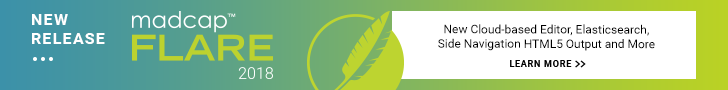
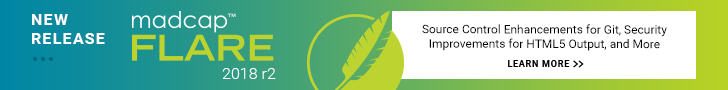
added document360 ad

diff --git a/_includes/single_post_ads.html b/_includes/single_post_ads.html
@@ -1,9 +1,10 @@
 <div class="singlePostAds">
     <script>
 var contents=new Array()
-contents[0]='<a href="https://www.madcapsoftware.com/madcap-flare-2018/?utm_source=IdRatherBeWriting&utm_campaign=Flare2018&utm_medium=Banner"><img src="{{ "/images/ads/Flare2018-720x90.png" | prepend: site.baseurl }}" alt="Madcap Flare" /></a>'
+contents[0]='<a href="https://www.madcapsoftware.com/madcap-flare-2018/?utm_source=IdRatherBeWriting&utm_campaign=Flare2018r2&utm_medium=Banner"><img src="{{ "/images/ads/Flare2018-720x90.png" | prepend: site.baseurl }}" alt="Madcap Flare" /></a>'
 contents[1]='<a href="https://www.adobe.com/products/robohelp/download-trial/try.html?sdid=HHJ4XJQZ&mv=other&promoid=7011O0000037sV8QAI"><img src="{{ "/images/ads/adobe728x90.gif" | prepend: site.baseurl }}" alt="Adobe Robohelp" /></a>'
 contents[2]='<a href="https://swagger.io/tools/swaggerhub/?utm_medium=display&utm_source=idratherbewriting&utm_campaign=irbwsponsor"><img src="{{ "/images/ads/SwaggerHub_GP_API-Ads_728x90.png" | prepend: site.baseurl }}" alt="SwaggerHub: The Platform for Designing and Documenting APIs with Swagger" /></a>'
+contents[3]='<a class="noCrossRef" href="https://document360.io?ref=idratherbewriting"><img src="{{ "/images/ads/document360.jpg" | prepend: site.baseurl }}" alt="Document 360: Best-in-Class Knowledge Base Software" /></a>'
 
 var i=0
 //variable used to contain controlled random number

diff --git a/_posts/2018/11/2018-11-19-avoid-being-secretary-for-engineers.md b/_posts/2018/11/2018-11-19-avoid-being-secretary-for-engineers.md
@@ -19,6 +19,26 @@ redirect_from:
 
 {% include audio.html %}
 
+{% comment %}
+see if you can work this quote in:
+
+In the rare instances where program documentation is
+written by technical communicators, they are often brought
+into the loop after the program has been largely completed.
+Typically, material is simply tossed over the fence for the
+communicators to figure out. At that point, many of the
+key decisions made by the developers during the program’s
+design and implementation have been lost. The technical
+writer faces the hurdle of learning as much as possible about
+a program with little help from the developer, who may now
+be more concerned with a new project than discussing old
+code. The end result is again program documentation that
+is of relatively low quality.
+
+Connecting Technical Communicators
+with Technical Developers. SIGDOC’02, October 20–23, 2002, Toronto, Ontario, Canada.
+ {% endcomment %}
+
 ## Critical inquiry versus vocational knowledge
 
 Lately I've been thinking about two types of knowledge: intellectual knowledge versus vocational knowledge. Or rather, critical inquiry versus technical how-to. Or theoretical knowledge versus practical knowledge. In short, asking *why* versus asking *how* or *what*. I'm not entirely sure how to characterize the differences, but the difference in focus has contributed to some angst in my tech writing career lately.
